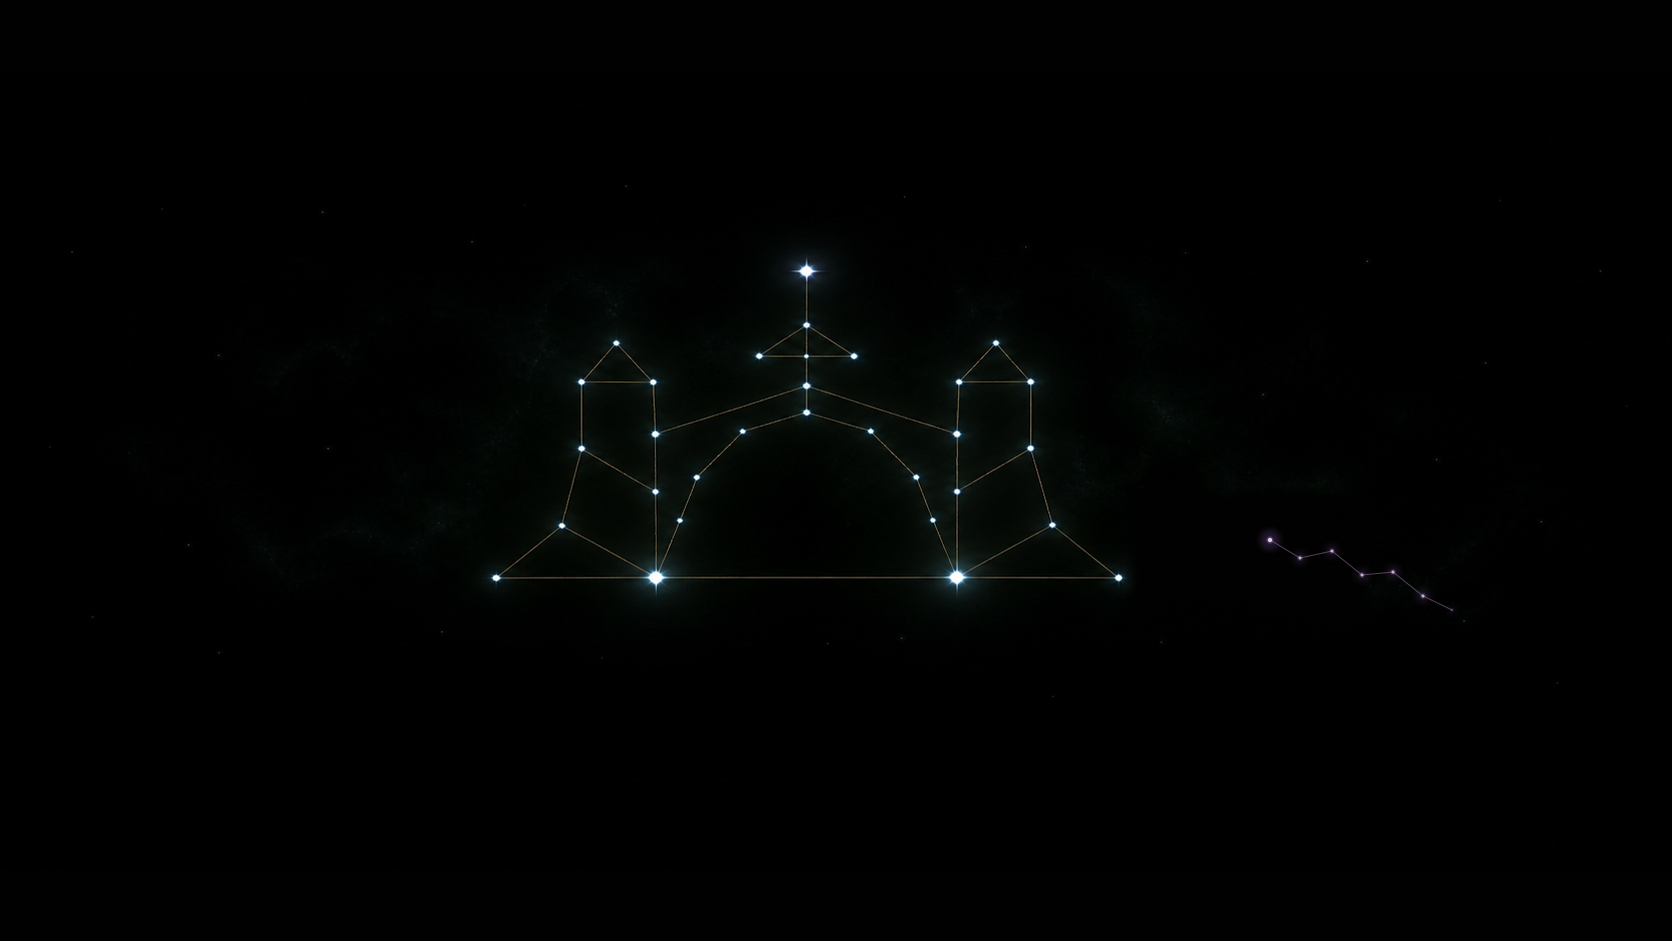
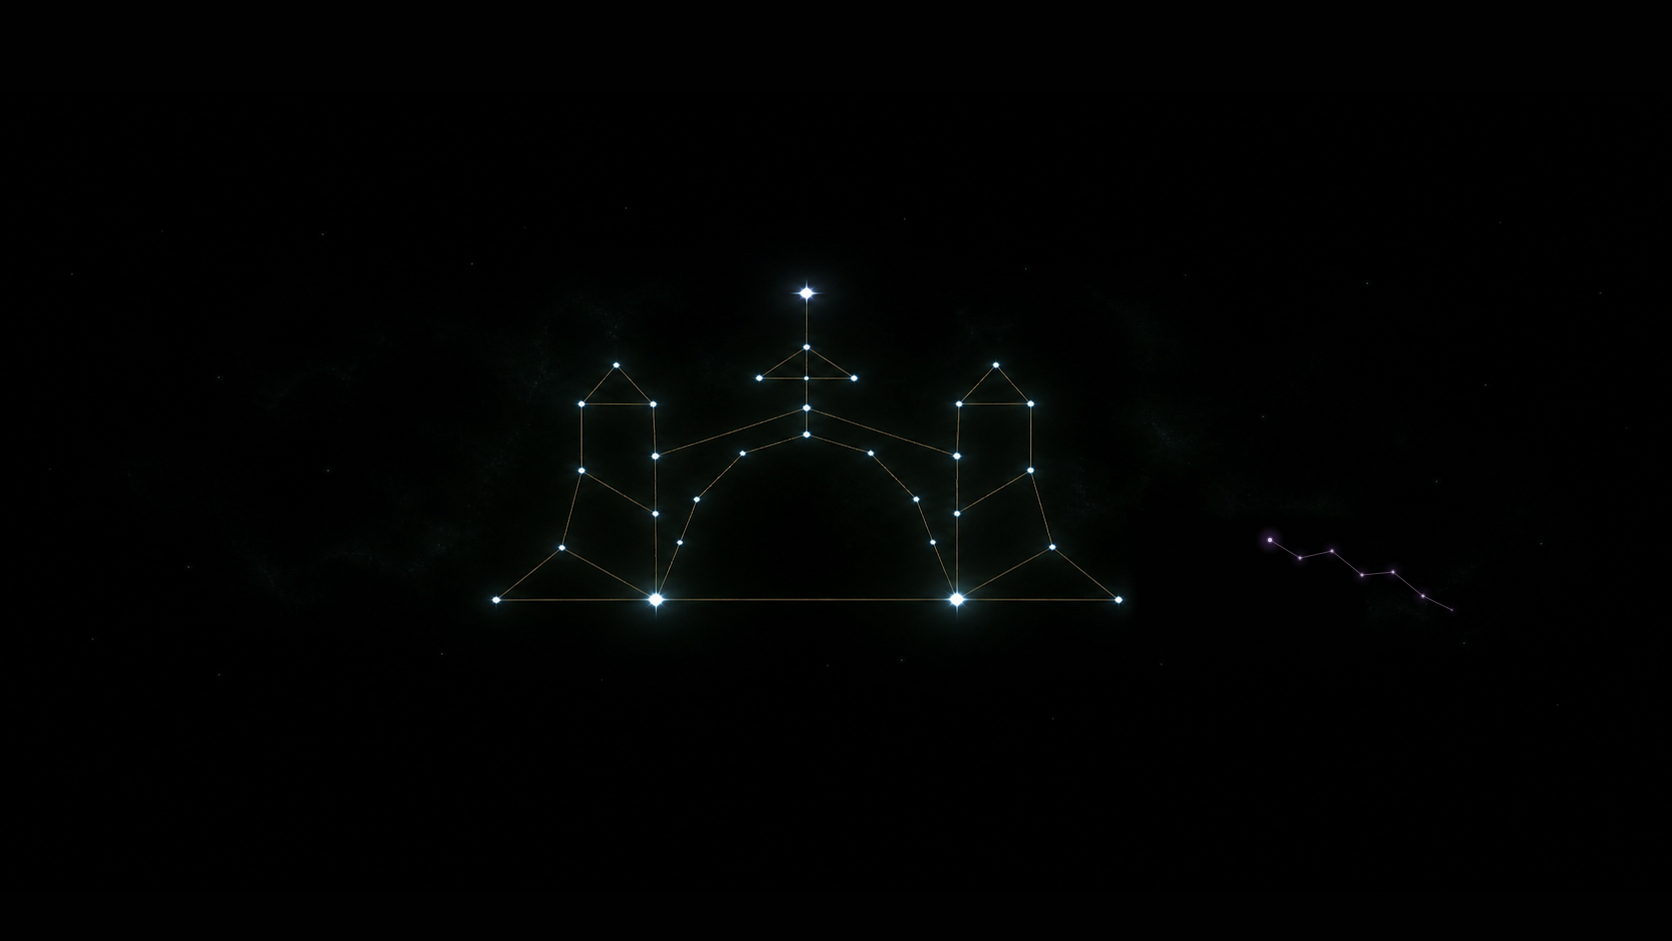
art(talents): Sol's ledger lands, with sharper Gate and Crossed Irons
The owed SOL56_TALENT_ART_LEDGER.md arrives covering all eight charts,
and settles the one open question: the violet branch runs seven stars
on every chart with the seventh deliberately faintest. Revised
bastion.png (cleaner gatehouse and ward-light) and maverick.png (the
crossed pistols now resolve, with the cyan/ember muzzle pair carrying
the Two Irons and Iron and Ember fork in the stars).

diff --git a/Docs/SOL56_TALENT_ART_LEDGER.md b/Docs/SOL56_TALENT_ART_LEDGER.md
@@ -1,0 +1,10 @@
+# SOL 5.6 Talent Art Ledger
+
+- `bastion.png` -- THE GATE: gatehouse arch, twin towers, ward-light, and foundation capstones; 1672x941 RGB24 PNG; full-resolution and live centered-banner crop verified; consistent lower seven-star violet branch with the seventh star faintest.
+- `spector.png` -- THE LONG EYE: point-and-hairline rifle profile with scope/rail branches and bright/quiet muzzle pair; 1672x941 RGB24 PNG; full-resolution and live centered-banner crop verified; consistent lower seven-star violet branch with the seventh star faintest.
+- `conduit.png` -- THE LANTERN: six-rayed lantern with a two-star inner flame; 1672x941 RGB24 PNG; full-resolution and live centered-banner crop verified; consistent lower seven-star violet branch with the seventh star faintest.
+- `surger.png` -- THE PULSE: heartbeat trace across an outline-star body suggestion with hanging branches and forked peak; 1672x941 RGB24 PNG; full-resolution and live centered-banner crop verified; consistent lower seven-star violet branch with the seventh star faintest.
+- `archon.png` -- THE CHORUS: raised-hand constellation with four abstract orbit branches; 1672x941 RGB24 PNG; full-resolution and live centered-banner crop verified; consistent lower seven-star violet branch with the seventh star faintest.
+- `procurator.png` -- THE LEDGER: balance scales, paired fulcrum stars, hanging pans, and faint map grid; 1672x941 RGB24 PNG; full-resolution and live centered-banner crop verified; consistent lower seven-star violet branch with the seventh star faintest.
+- `cypherist.png` -- THE CIRCUIT: closed power rail, parallel branches, and four one-way switch stars in two fork pairs; 1672x941 RGB24 PNG; full-resolution and live centered-banner crop verified; consistent lower seven-star violet branch with the seventh star faintest.
+- `maverick.png` -- THE CROSSED IRONS: crossed pistol constellation, casing fans, and cyan/ember muzzle pair; 1672x941 RGB24 PNG; full-resolution and live centered-banner crop verified; consistent lower seven-star violet branch with the seventh star faintest.
